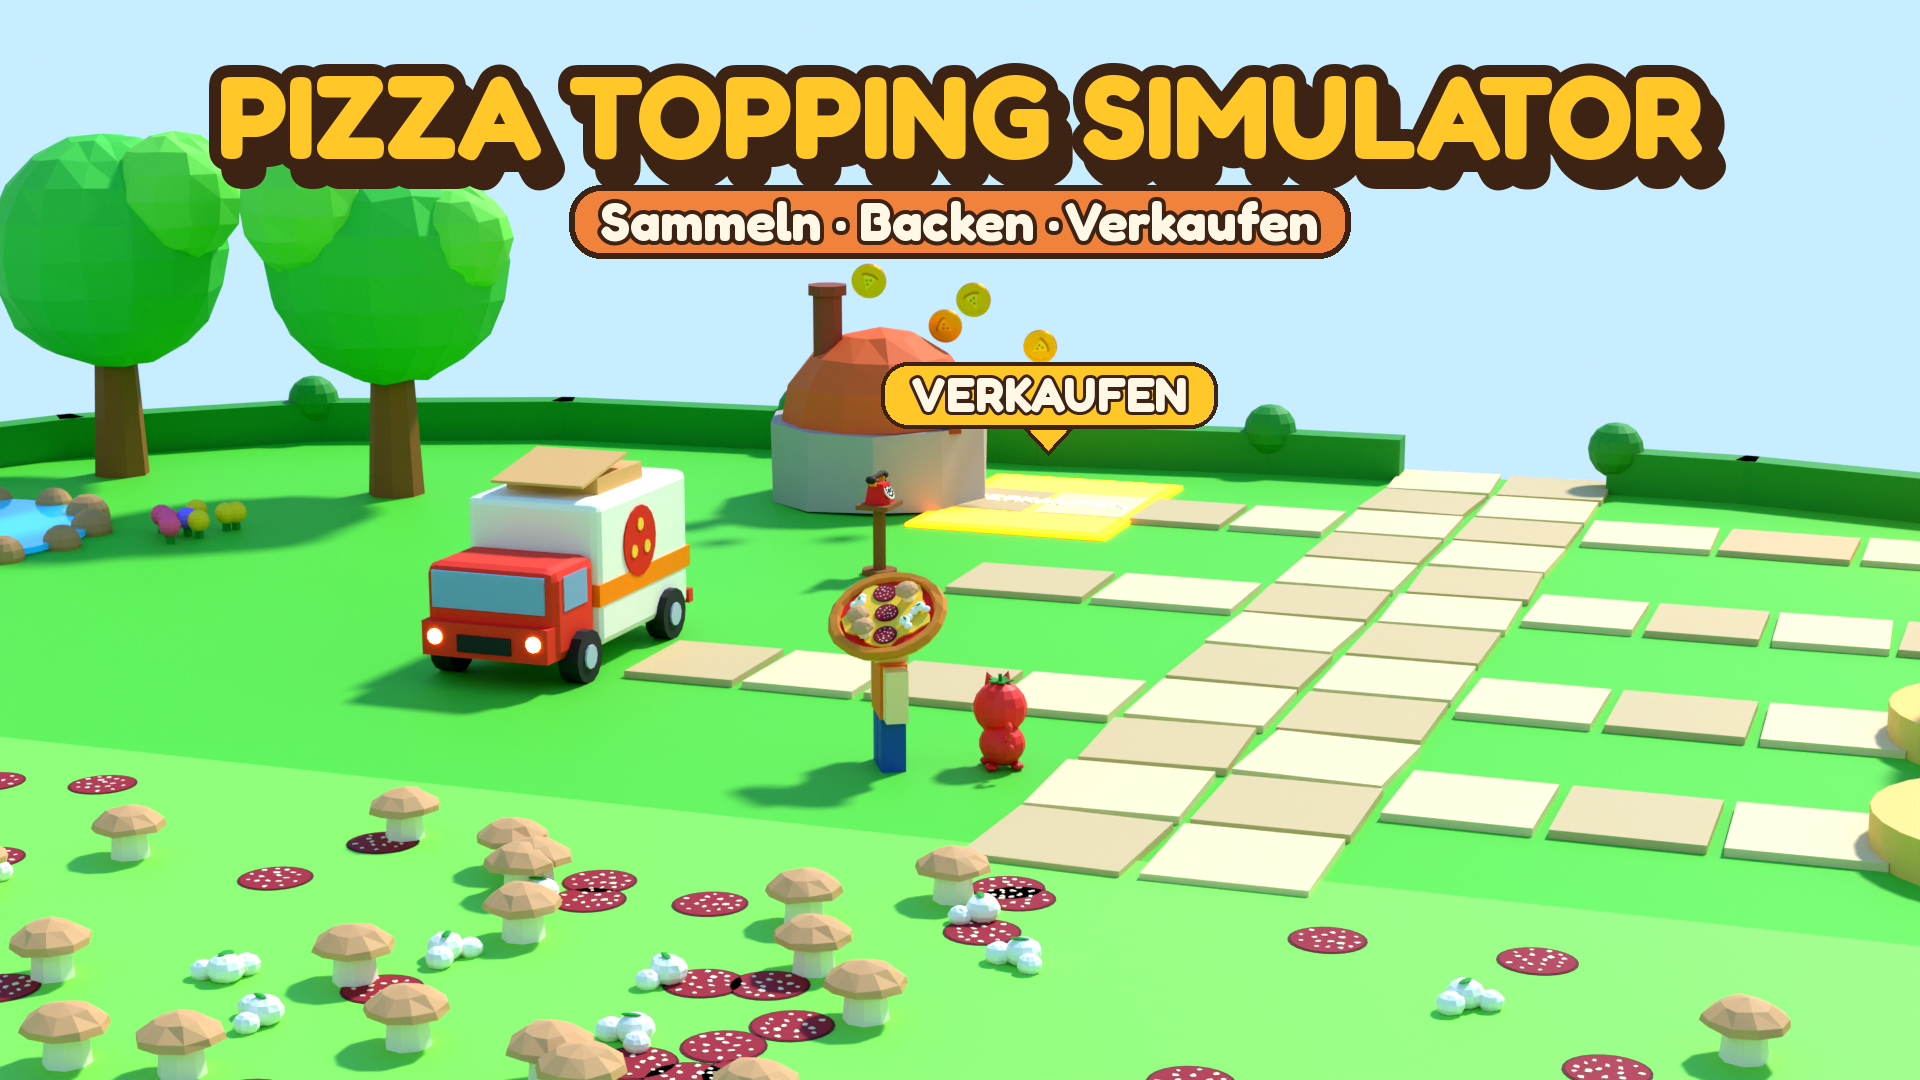
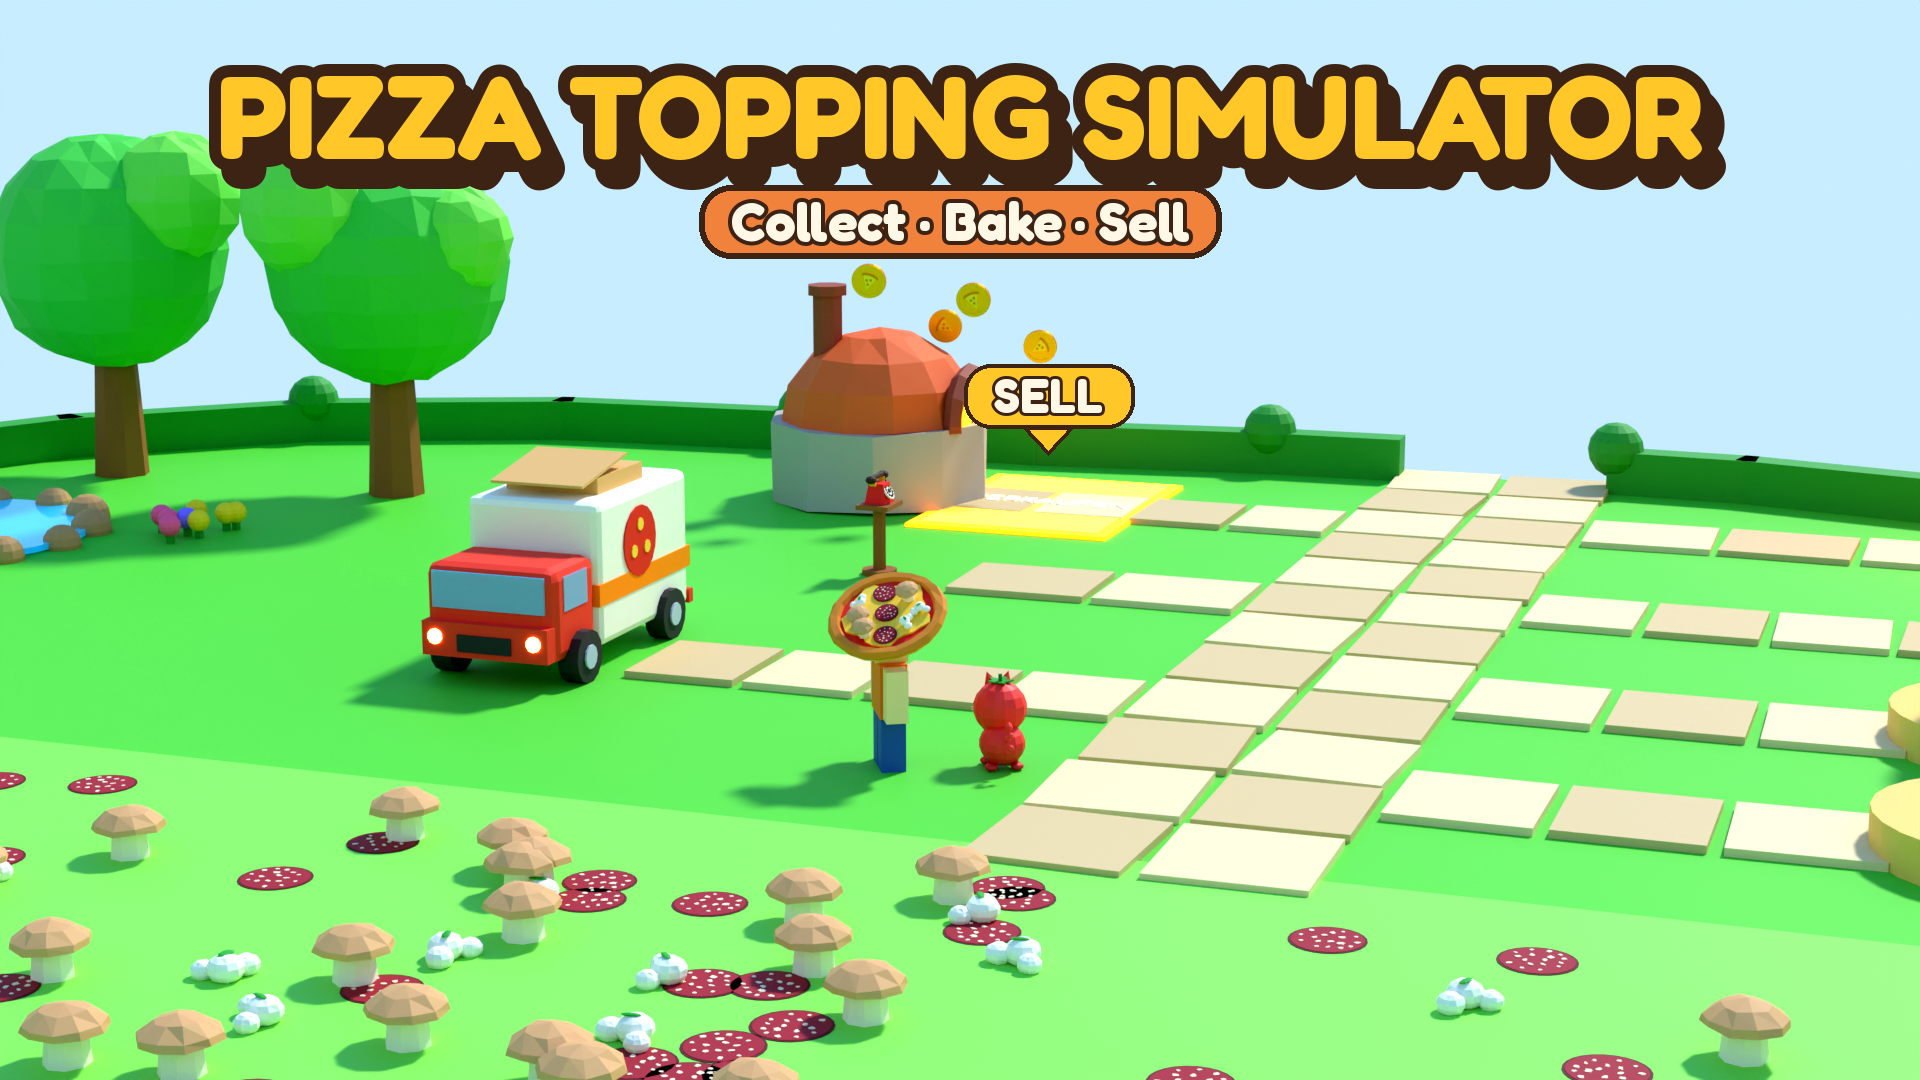
Use English subtitles and sell label on the store thumbnails (#61)
Claude-Session: https://claude.ai/code/session_01ETPm5QpUT9PAmBUr2Z36QV

Changed region(s): [[0.2812, 0.1528, 0.7188, 0.2444], [0.4375, 0.3361, 0.6562, 0.3972]]

diff --git a/tools/blender/render_store.py b/tools/blender/render_store.py
@@ -49,9 +49,9 @@ ORANGE = (240, 130, 60)
 # Shot -> (output file, size, samples, title, subtitle)
 SHOTS = {
     "icon": ("Icon", (512, 512), 96, None, None),
-    "collect": ("Thumbnail1_Collect", (1920, 1080), 64, TITLE, "Sammeln · Backen · Verkaufen"),
-    "islands": ("Thumbnail2_Islands", (1920, 1080), 64, TITLE, "7 Welten zum Freischalten"),
-    "pets": ("Thumbnail3_Pets", (1920, 1080), 64, TITLE, "Über 60 Pets ausbrüten"),
+    "collect": ("Thumbnail1_Collect", (1920, 1080), 64, TITLE, "Collect · Bake · Sell"),
+    "islands": ("Thumbnail2_Islands", (1920, 1080), 64, TITLE, "Unlock 7 Worlds"),
+    "pets": ("Thumbnail3_Pets", (1920, 1080), 64, TITLE, "Hatch 70 Pets"),
 }
 
 
@@ -264,7 +264,7 @@ def shot_collect():
     # The word turned towards the camera (it looks along +Z), so it reads in the picture.
     text3d("VERKAUFEN", 1.8, to_b(sx, gy + 0.3, sz), (0, 0, math.pi), CREAM, emission=0.6, extrude=0.1)
     # Seen from the field the word on the floor is tiny, so the picture also gets a label.
-    LABELS.append((to_b(sx, gy + 5, sz), "VERKAUFEN"))
+    LABELS.append((to_b(sx, gy + 5, sz), "SELL"))
     # Toppings on the field (field centre z = -25, the camera looks from +X/+Z).
     import random
 
